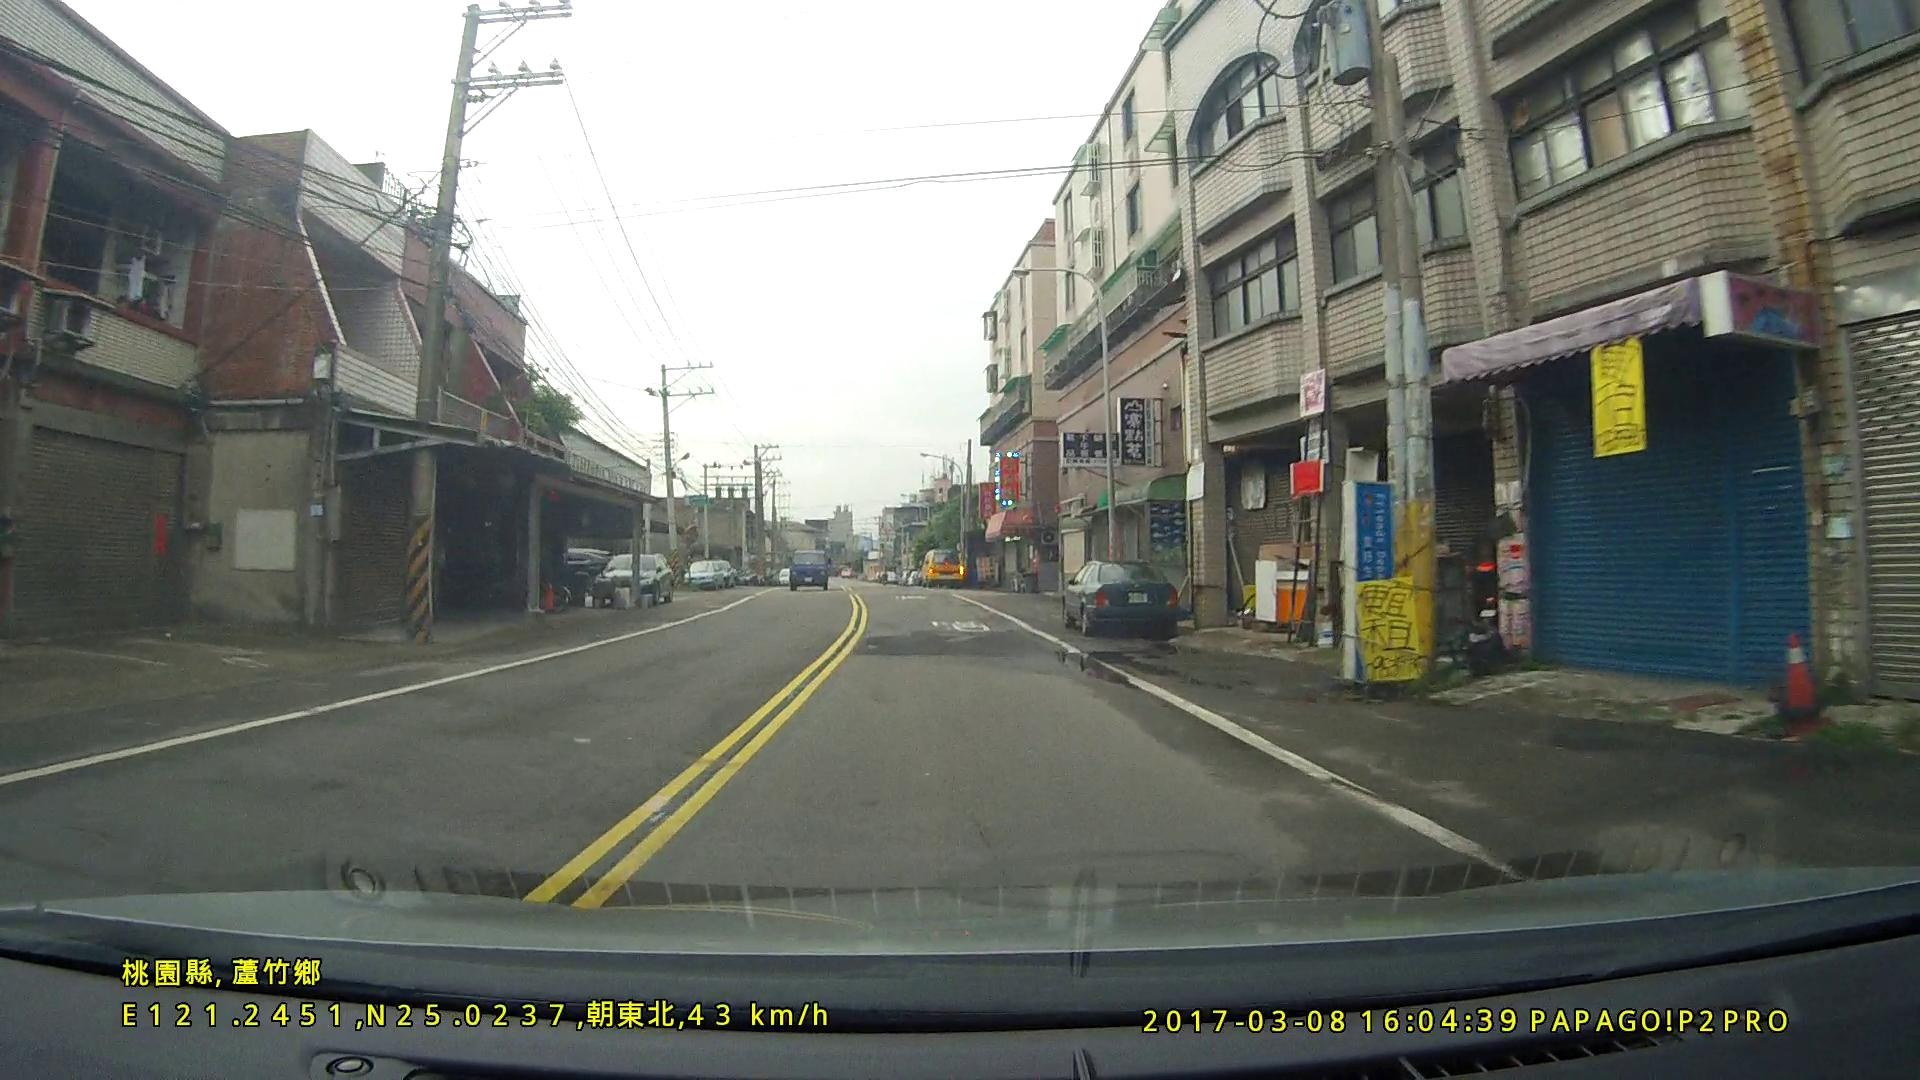
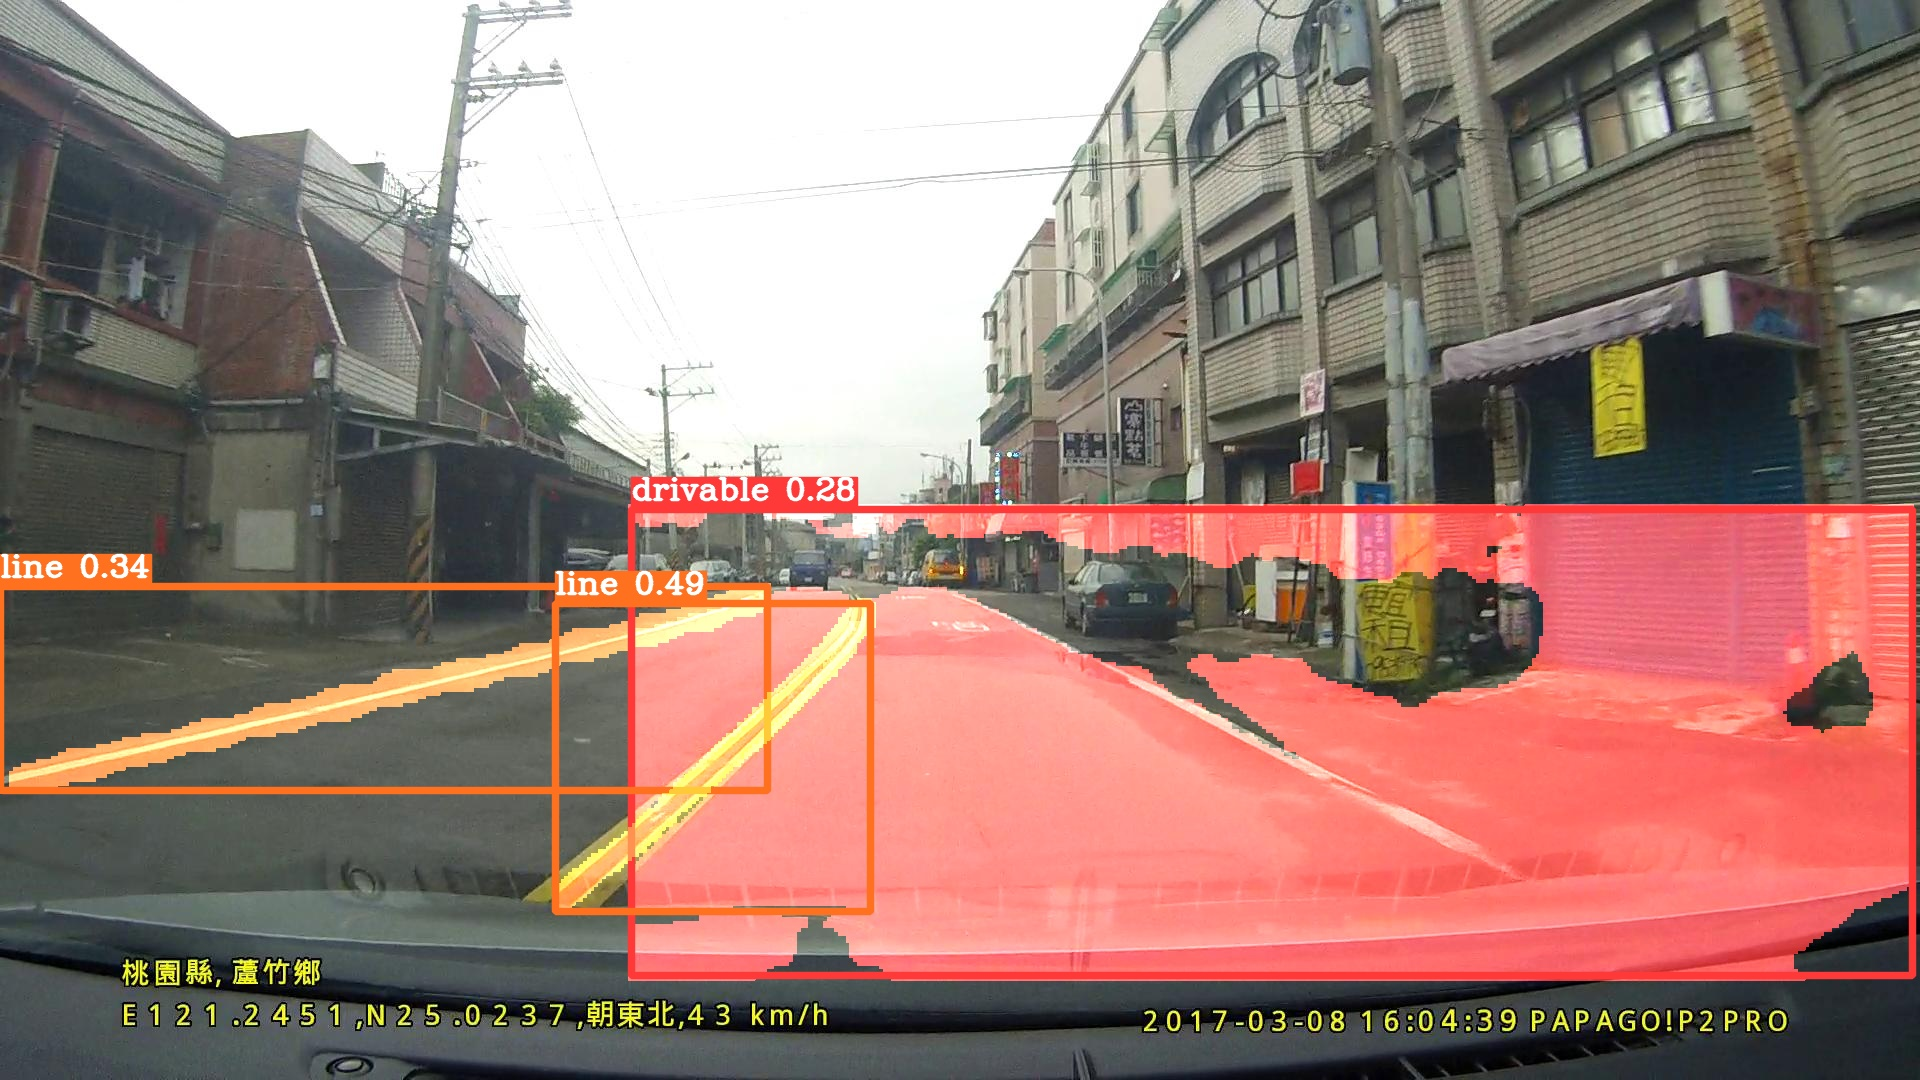
reviesed_mistakes

Changed region(s): [[0.0, 0.4278, 1.0, 0.9167]]

diff --git a/main.c b/main.c
@@ -35,16 +35,16 @@ static void post_regpreds(float (*distance)[4], char *type)
                 float *data = &distance[row][0]; // left, top, right, bottom
 
                 // x1y1 = anchor_points - lt
-                data[0] = (anchor_points_x - data[0] + 0.5f) * stride;
-                data[1] = (anchor_points_y - data[1] + 0.5f) * stride;
+                data[0] = anchor_points_x - data[0];
+                data[1] = anchor_points_y - data[1];
 
                 // x2y2 = anchor_points + rb
-                data[2] += (anchor_points_x + 0.5f) * stride; // anchor_points_c + data[2]
-                data[3] += (anchor_points_y + 0.5f) * stride; // anchor_points_r + data[3]
+                data[2] += anchor_points_x ; // anchor_points_c + data[2]
+                data[3] += anchor_points_y ; // anchor_points_r + data[3]
 
-                // for (int j = 0 ; j < 4 ; ++j){
-                //     distance[row][j] = (distance[row][j] + 0.5f) * stride;
-                // }
+                for (int j = 0 ; j < 4 ; ++j){
+                    distance[row][j] = (distance[row][j] + 0.5f) * stride;
+                }
             }
         }
         distance += end_row_index;
@@ -429,8 +429,8 @@ static double PostProcessing(struct Output* output, const float (* Mask_Input)[N
         //printf("Thread Num:%d, Index: %d\n", omp_get_thread_num(), i);
         struct Object *Detect = &ValidDetections[i];
         RescaleMask( &output->Masks[i], Mask[i], Img, mask_xyxy);
-        //DrawMask( Detect->label, MASK_TRANSPARENCY, output->Masks[i], Img);
-        //DrawLabel( Detect->Rect, Detect->conf, Detect->label, Thickness, TextColor, Img);
+        DrawMask( Detect->label, MASK_TRANSPARENCY, output->Masks[i], Img);
+        DrawLabel( Detect->Rect, Detect->conf, Detect->label, Thickness, TextColor, Img);
     }
     double draw_masklabel_time = omp_get_wtime();
 
@@ -662,7 +662,8 @@ int main(int argc, const char **argv)
             continue;
         }
         init_Output( &output, Img->width, Img->depth);
-        printf("===============Reading Image: %s===============\n", NameBuffer);
+        printf("*********************************************\n");
+        printf("**************Reading Image: %s**************\n", NameBuffer);
         float Mask_Coeffs[MAX_DETECTIONS][NUM_MASKS];
         float Mask_Input[MASK_SIZE_HEIGHT * MASK_SIZE_WIDTH][NUM_MASKS];
         struct Object ValidDetections[MAX_DETECTIONS];
@@ -702,7 +703,7 @@ int main(int argc, const char **argv)
         SaveResultImage(ResultDirectory, BaseName, Img);
         releaseAllMasks(&output);
         cvReleaseImage(&Img);
-        printf("===============Saved Image Complete===============\n");
+        printf("**************Saved Result Complete**************\n");
         printf("\n\n");
         ++ImageCount;
     }
